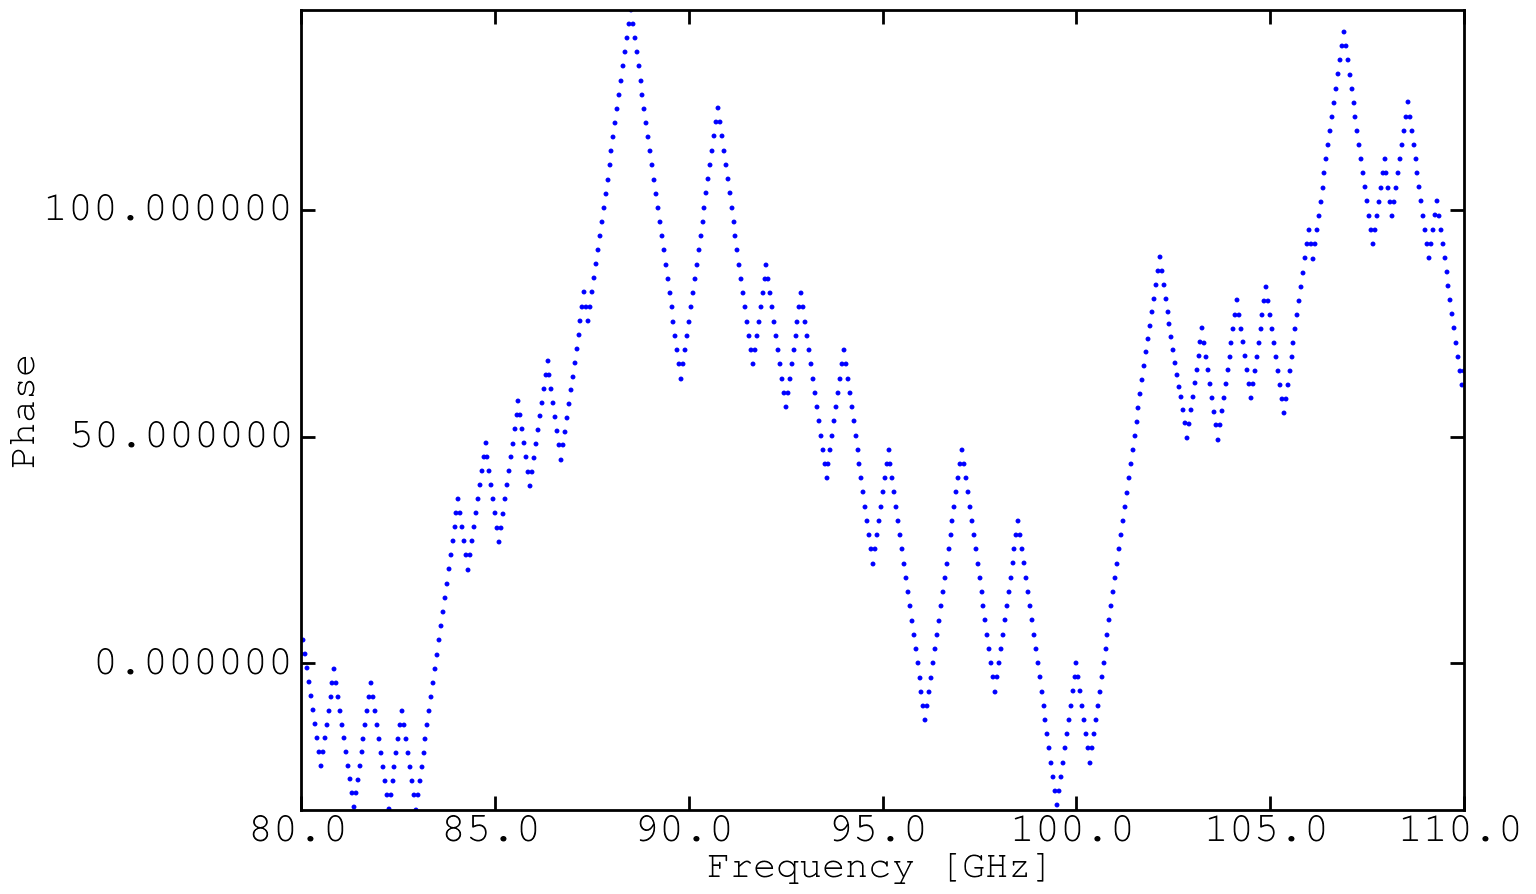
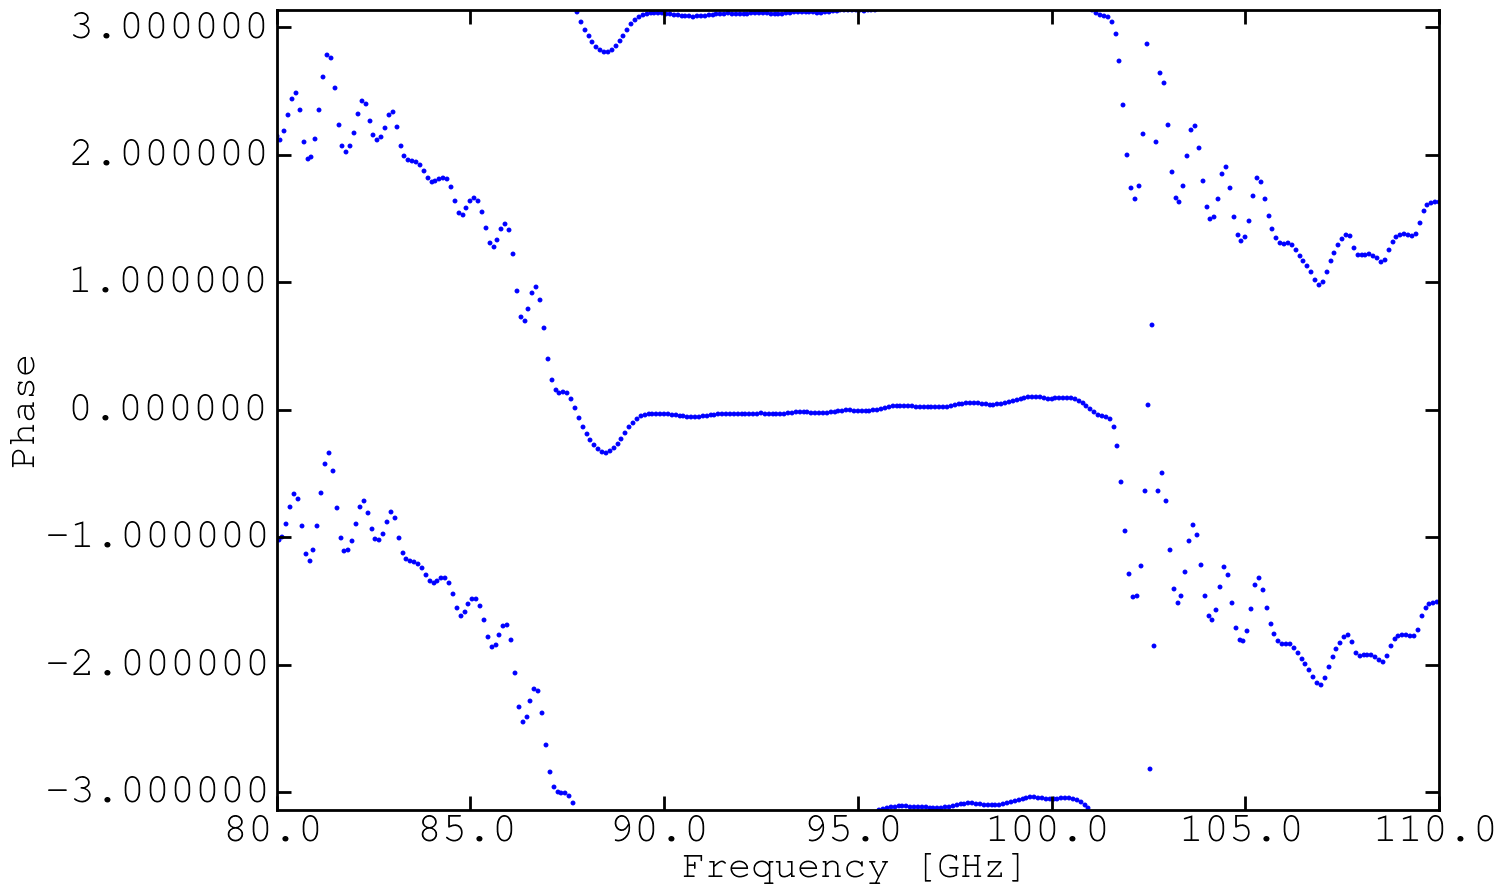
initial calculation of the phase using window functions

diff --git a/analysis/FTSscan.py b/analysis/FTSscan.py
@@ -613,6 +613,52 @@ class FTSscan(object):
             print ("All the plots of the symmetrized interferograms have been completed ")
         self.symmetrized = True
 
+    def checkphase(self):
+        datascans = self.nosampledata
+        y = datascans['signal-driftcorrected']
+        x = datascans['encoder-driftcorrected']
+        n = np.arange(y.shape[1])
+        print (n.shape)
+        print (y.shape)
+        # Z = fft(y, axis = 1)
+        # Y = fft(n*y, axis = 1)
+
+        # uphase = -2*np.pi(Z.real*Y.real + Z.imag*Y.imag)/np.abs(Z)**2
+
+        # index = np.array(map(lambda x: np.logical_and(x >= -0.2,x <= 0.2 ),\
+        #     datascans['encoder-driftcorrected']))
+        # y = np.array(map(lambda x, sel: x[sel], datascans['signal-driftcorrected'],\
+        #     index))
+        # x = np.array(map(lambda x, sel: x[sel], datascans['encoder-driftcorrected'],\
+        #     index))
+
+        # window = np.array(map(lambda signal: np.blackman(len(signal)), y))
+        # y *= window
+        # windowfft = np.array(map(lambda x: fft(x), y))
+
+        # dx = np.array(map(lambda x: x[1] - x[0], x))
+        # windowfreq = np.array(map(lambda x, dx: fftfreq(len(x), dx), x, dx))
+
+        # Nmask = 200
+        # mask = np.ones(Nmask)
+        # freqthresh = map(lambda freq: np.logical_and(freq >= 0, freq <= 200), windowfreq)
+
+        # N = len(windowfft)
+        # for i in xrange(N):
+        #     phase = np.convolve(np.angle(windowfft[i]), mask, mode='same')/Nmask
+        #     fig, ax = plt.subplots(figsize=(15,10))
+        #     maxfft = np.max(np.abs(windowfft[i])[freqthresh[i]])
+        #     ax.plot(windowfreq[i][freqthresh[i]], np.abs(windowfft[i])[freqthresh[i]]/maxfft, 'b.-', label='Abs')
+        #     ax.plot(windowfreq[i][freqthresh[i]], phase[freqthresh[i]]/np.pi, 'r.-', label='Phase')
+        #     ax.set_xlabel(r'Frequency [GHz]')
+        #     ax.set_ylabel(r'Angle [radians]')
+        #     ax.legend()
+        #     ax.axis('tight')
+        #     ax.set_xticklabels(["{0:3.0f}".format(t) for t in ax.get_xticks()])
+        #     ax.set_yticklabels(["{0:3.4f}".format(t) for t in ax.get_yticks()])
+        #     plt.savefig("no-sample_{0:d}.png".format(i))
+        
+
     def getFFTs(self):
         if not self.symmetrized:
             raise RuntimeError("Scans must be symmetrized before taking FFTs")
@@ -631,12 +677,16 @@ class FTSscan(object):
         self.sampledata['freq-interest'], self.sampledata['fft-interest'] = getthresh(self, self.sampledata)
 
         x = self.frequency
-        self.sampledata['fft-power'] = getpower(np.real(self.sampledata['signal-fft']), x)
-        self.nosampledata['fft-power'] = getpower(np.real(self.nosampledata['signal-fft']), x)
+        N = len(self.sampledata['signal-fft'][0])
+        self.sampledata['fft-power'] = getpower(np.abs(self.sampledata['signal-fft']), x)/N
+        N = len(self.nosampledata['signal-fft'][0])
+        self.nosampledata['fft-power'] = getpower(np.abs(self.nosampledata['signal-fft']), x)/N
 
         x = self.frequency[self.thresh]
-        self.sampledata['fft-power-interest'] = getpower(np.real(self.sampledata['fft-interest']), x)
-        self.nosampledata['fft-power-interest'] = getpower(np.real(self.nosampledata['fft-interest']), x)
+        N = len(self.sampledata['fft-interest'][0])
+        self.sampledata['fft-power-interest'] = getpower(np.real(self.sampledata['fft-interest']), x)/N
+        N = len(self.nosampledata['fft-interest'][0])
+        self.nosampledata['fft-power-interest'] = getpower(np.real(self.nosampledata['fft-interest']), x)/N
         
         print ("For sample: Average Power is {0} over all frequencies.\n".\
             format(np.average(self.sampledata['fft-power'])))
@@ -696,10 +746,10 @@ class FTSscan(object):
 
             pltparams['y-label'] = r'Phase'
             makeplots(self, self.nosampledata['freq-interest'],\
-                np.unwrap(np.angle(self.nosampledata['signal-fft'])[:, self.thresh]),tag='no-sample-phase', **pltparams)
+                (np.angle(self.nosampledata['signal-fft'])[:, self.thresh]),tag='no-sample-phase', **pltparams)
 
             makeplots(self, self.sampledata['freq-interest'],\
-                np.unwrap(np.angle(self.sampledata['signal-fft'])[:, self.thresh]),tag='sample-phase', **pltparams)
+                (np.angle(self.sampledata['signal-fft'])[:, self.thresh]),tag='sample-phase', **pltparams)
             print ("All the plots of the fourier transforms have been completed ")
         self.transformed = True
 

diff --git a/analysis/FTSanalysis.py b/analysis/FTSanalysis.py
@@ -17,10 +17,11 @@ def scan_analysis(dirpath, etalonlen, frequency):
     myscan.generateplots = True 
     myscan.peakcorrect()
     myscan.symmetrize()
-    myscan.getFFTs()
-    # # myscan.generateplots = False 
-    myscan.averageFFT()
-    myscan.getratio()
+    myscan.checkphase()
+    # myscan.getFFTs()
+    # # # myscan.generateplots = False 
+    # myscan.averageFFT()
+    # myscan.getratio()
     # # myscan.generateplots = False
     # myscan.checkguesses()
     # # myscan.generateplots = True 
